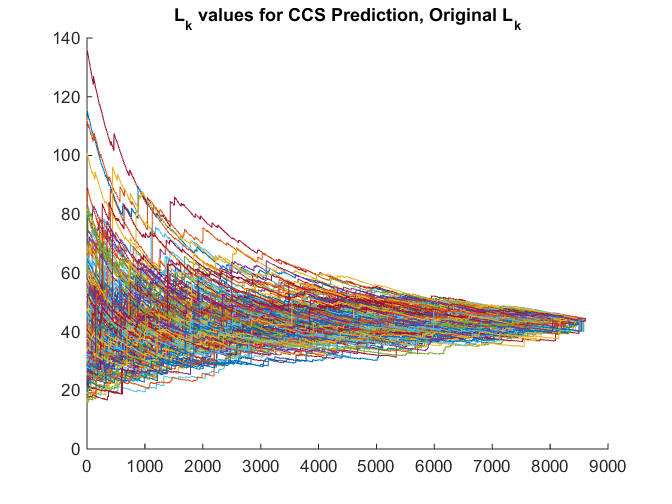
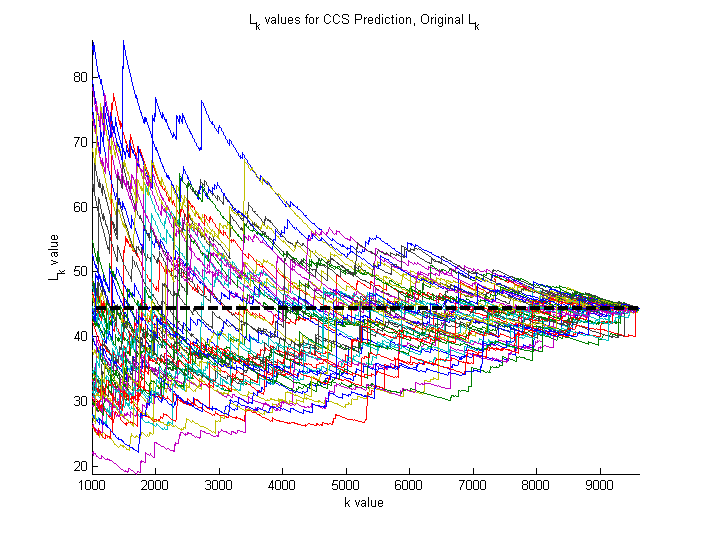
df

Changed region(s): [[0.0625, 0.0595, 0.9375, 0.9524], [0.25, 0.0, 0.7812, 0.0595]]

diff --git a/Sep2012_EMDCalc/TEST_approxBySampling2.m b/Sep2012_EMDCalc/TEST_approxBySampling2.m
@@ -41,37 +41,62 @@ end
 
 %%
 startColInd = 1000;
+dispRows = 1:50;
 lineWidth=3;
-numEntries = numPatches-startColInd;
+
+minYf1p1 = min(min(LkValuesF1pred1(dispRows,startColInd:end)));
+maxYf1p1 = max(max(LkValuesF1pred1(dispRows,startColInd:end)));
+
+minYf2p1 = min(min(LkValuesF2pred1(dispRows,startColInd:end)));
+maxYf2p1 = max(max(LkValuesF2pred1(dispRows,startColInd:end)));
+
+minYf1p2 = min(min(LkValuesF1pred2(dispRows,startColInd:end)));
+maxYf1p2 = max(max(LkValuesF1pred2(dispRows,startColInd:end)));
+
+minYf2p2 = min(min(LkValuesF2pred2(dispRows,startColInd:end)));
+maxYf2p2 = max(max(LkValuesF2pred2(dispRows,startColInd:end)));
+
 figure
 title('L_k values for Dec Tree Prediction, Original L_k');
 hold on
-plot(LkValuesF1pred1(:,startColInd:end)') 
-plot(LvalF1pred1.*ones(1,numEntries),'k--','LineWidth',lineWidth);
+plot(LkValuesF1pred1(dispRows,:)') 
+plot(LvalF1pred1.*ones(1,numPatches),'k--','LineWidth',lineWidth);
+axis([startColInd numPatches minYf1p1 maxYf1p1]);
+xlabel('k value');
+ylabel('L_k value');
 hold off
 
 figure
 title('L_k values for Dec Tree Prediction, New L_k');
 hold on
-plot(LkValuesF2pred1(:,startColInd:end)')
-plot(LvalF2pred1.*ones(1,numEntries),'k--','LineWidth',lineWidth);
+plot(LkValuesF2pred1(dispRows,:)')
+plot(LvalF2pred1.*ones(1,numPatches),'k--','LineWidth',lineWidth);
+axis([startColInd numPatches minYf2p1 maxYf2p1]);
+xlabel('k value');
+ylabel('L_k value');
 hold off
 
 figure
 title('L_k values for CCS Prediction, Original L_k');
 hold on
-plot(LkValuesF1pred2(:,startColInd:end)')  
-plot(LvalF1pred2.*ones(1,numEntries),'k--','LineWidth',lineWidth);
+plot(LkValuesF1pred2(dispRows,:)')  
+plot(LvalF1pred2.*ones(1,numPatches),'k--','LineWidth',lineWidth);
+axis([startColInd numPatches minYf1p2 maxYf1p2]);
+xlabel('k value');
+ylabel('L_k value');
 hold off
 
 figure
 title('L_k values for CCS Prediction, New L_k');
 hold on
-plot(LkValuesF2pred2(:,startColInd:end)')  
-plot(LvalF2pred2.*ones(1,numEntries),'k--','LineWidth',lineWidth);
+plot(LkValuesF2pred2(dispRows,:)')  
+plot(LvalF2pred2.*ones(1,numPatches),'k--','LineWidth',lineWidth);
+axis([startColInd numPatches minYf2p2 maxYf2p2]);
+xlabel('k value');
+ylabel('L_k value');
 hold off
 
-
+%%
 F1pred1diff = LkValuesF1pred1-LvalF1pred1;
 F2pred1diff = LkValuesF2pred1-LvalF2pred1;
 F1pred2diff = LkValuesF1pred2-LvalF1pred2;
@@ -101,7 +126,7 @@ LkF2pred1disp = LkF2pred1result;
 LkF1pred2disp = LkF1pred2result;
 LkF2pred2disp = LkF2pred2result;
 
-startColInd = 2000;
+startColInd = 1000;
 endColInd = numPatches;
 maxY = max([LkF1pred1disp(startColInd:endColInd) ...
     LkF2pred1disp(startColInd:endColInd) ...
@@ -110,7 +135,6 @@ maxY = max([LkF1pred1disp(startColInd:endColInd) ...
 maxY2 = max([LkF2pred1disp(startColInd:endColInd) ...
     LkF2pred2disp(startColInd:endColInd)]);
 figure
-title('Lowest Epsilon Value Possible');
 hold on
 plot(LkF1pred1disp,'r-');
 plot(LkF2pred1disp,'g-');
@@ -120,12 +144,15 @@ legend('Function 1, Pred 1','Function 2, Pred 1',...
     'Function 1, Pred 2','Function 2, Pred 2');
 hold off
 axis([startColInd endColInd 0 maxY]);
+xlabel('k value');
+ylabel('epsilon value required');
 
 figure
-title('Lowest Epsilon Value Possible');
 hold on
 plot(LkF2pred1disp,'g-');
 plot(LkF2pred2disp,'k-');
 legend('Function 2, Pred 1','Function 2, Pred 2');
 hold off
 axis([startColInd endColInd 0 maxY2]);
+xlabel('k value');
+ylabel('epsilon value required');
